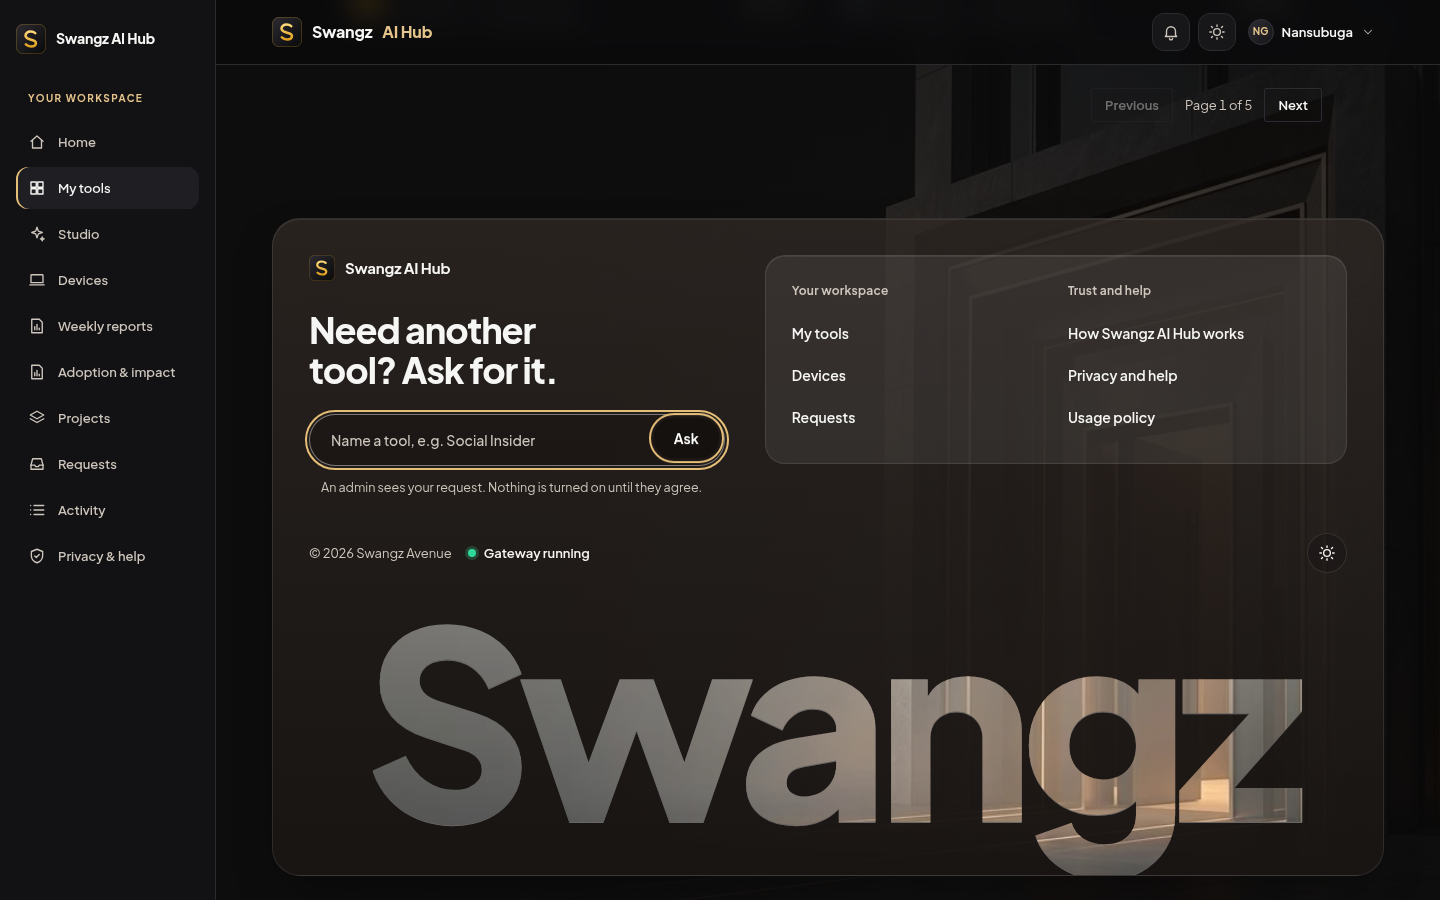
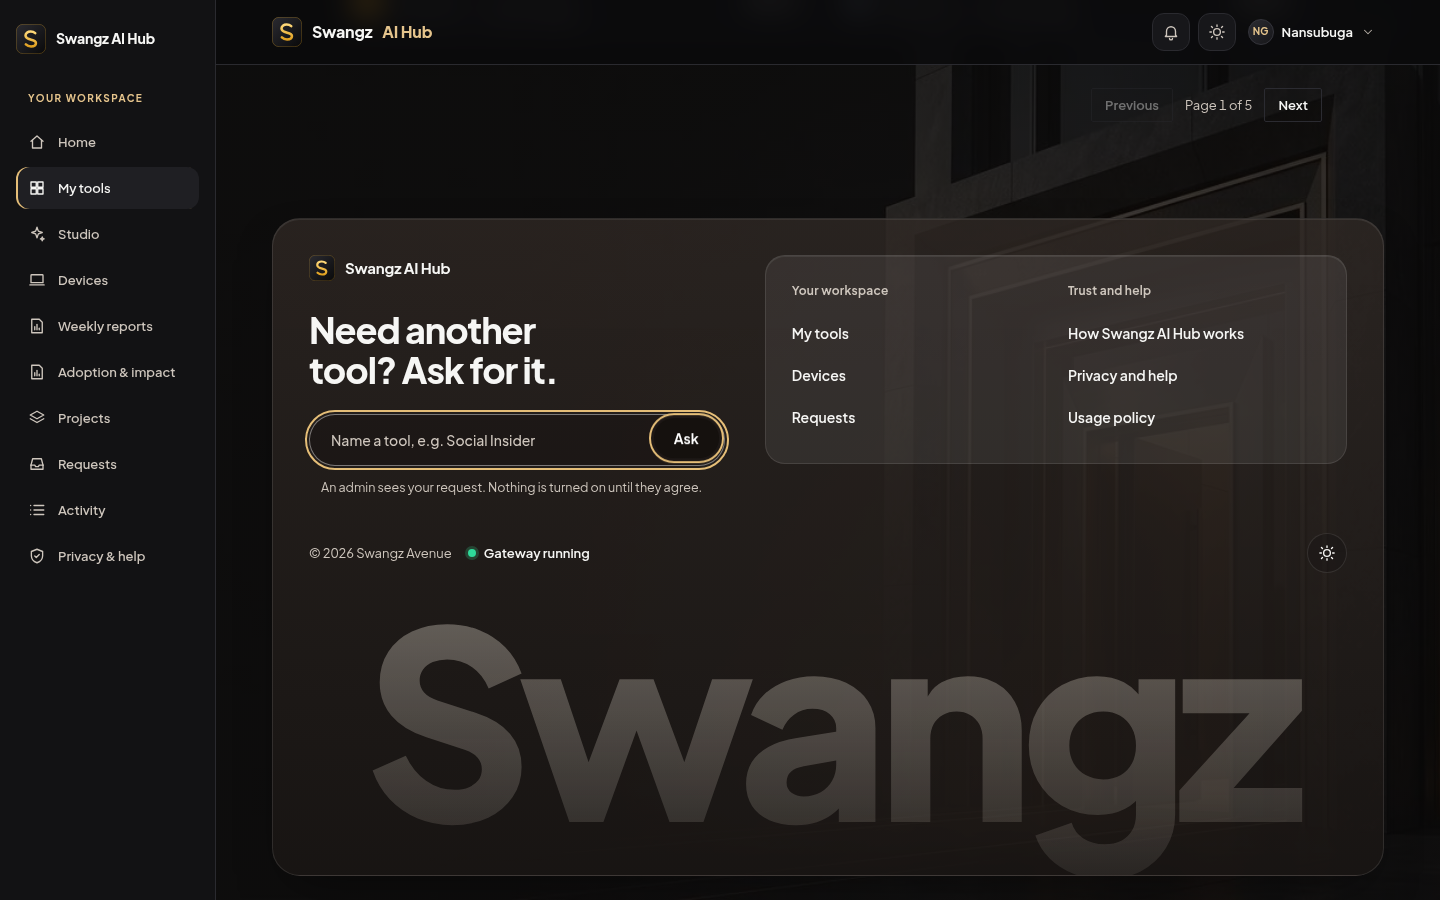
Footer evidence on the corrected head: screenshots, wordmark assertion, trace and limits

Changed region(s): [[0.25, 0.6844, 0.9062, 0.9956]]

diff --git a/docs/screenshots/glass-r11/README.md b/docs/screenshots/glass-r11/README.md
@@ -8,10 +8,9 @@ Real data only: health is the public `/healthz` (cached 60 s), "Ask" reuses the 
 
 ## Differences still left versus the reference
 - The panel's top edge settles straight; the reference keeps a wavy liquid edge. The reveal wave was removed with the panel animation (below).
-- In dark theme the wordmark is the fixed scene lifted by a warm light layer, so "Swa" reads as soft grey while "ngz" shows more of the photo; the reference letters are brighter still. The rim is a drop-shadow, not a text stroke (a stroke drew the variable font's overlapping inner contours).
+- (Superseded by the corrections below: the wordmark is now a plain clipped gradient.) In dark theme the wordmark was the fixed scene lifted by a warm light layer, so "Swa" reads as soft grey while "ngz" shows more of the photo; the reference letters are brighter still. The rim is a drop-shadow, not a text stroke (a stroke drew the variable font's overlapping inner contours).
 - The "g" descender runs into the panel's bottom edge on purpose (cut-off wordmark); the reference shows the full letter.
 - Light theme panel is a flatter cream than the reference's frosted white; the panel is a layered translucent gradient with no backdrop blur (see below), so it is flatter than frosted glass.
-- `background-attachment: fixed` is ignored on iOS Safari, so the cut-out falls back to the scene scaled to the wordmark box.
 - Gateway status has three wordings (running; up with the database not responding; not answering). No other health data is available to show.
 
 ## Corrections after Probe's review of 172c77a (portal.css, portal.js, this folder only)
@@ -32,3 +31,15 @@ Findings: the live backdrop blur was the main cost (a blur radius of 8 px cost t
 - Ask field border: white at .42 on dark, brown at .6 on light, so the field edge shows. Not measured numerically (estimated above 3:1 from the panel colours).
 - `/healthz` 503 with a body now reads "Gateway up, database not responding" (checked with a mocked 503); unreachable stays "Gateway not answering".
 - Typing a tool that does not exist keeps the message on the footer with a "Search every tool for it" link instead of jumping to Tools and losing the message (checked).
+
+## Correction after Probe's exact-head review (performance BLOCKED)
+- **Removed the wordmark's repaint layer.** `.gf-word` was the scene photo (`cover fixed`) clipped to 300px letters with a `drop-shadow` filter: a fixed background repaints on every scroll step and the filter adds a layer. It is now one translucent gradient clipped to the letters (`background-clip: text`), with no photo, no fixed attachment and no filter. Kept: the cut-off "Swangz" letters at the panel's foot, the milky panel, the reveal (content rises, wordmark fades in place). Dropped: the photo showing through the letters and the 1px light rim, which needed the filter. The wordmark stays decorative (`aria-hidden`).
+- `check.cjs` now asserts the wordmark has no text stroke, no filter, no fixed attachment and no image (`url()`), in both themes and sizes. Screenshots regenerated on the head merged with current main.
+- **Trace** (`perf.cjs`, same page and harness, `OLDWORD=1` puts the previous wordmark back with an injected rule): 1440x900, headless Chrome `--disable-gpu` (software render), 4 runs; each loads Tools, scrolls to the footer in 24 steps and records `requestAnimationFrame` intervals until 1.6 s after arrival.
+
+| Theme | Old wordmark: p95 per run | Gradient wordmark: p95 per run | Frames over 50 ms, old | now |
+|---|---|---|---|---|
+| dark | 100, 83, 83, 83 ms | 67, 67, 67, 67 ms | 10, 9, 7, 7 | 10, 11, 9, 6 |
+| light | 83, 83, 67, 67 ms | 83, 67, 83, 67 ms | 11, 11, 10, 10 | 11, 10, 10, 9 |
+
+Honest reading: dark shows a modest, repeatable gain in p95 and worst frame (max 117-183 ms before, 83-100 ms now); the count of slow frames and the light theme are within noise. **I do not claim parity with main.** Not run: a same-harness main baseline (main has no footer), a real GPU, a Chrome performance-trace file. The scroll loop is driven through Playwright, so some of the slow frames are harness overhead. The earlier experiment with the wordmark hidden (67-117 ms) suggests the remaining cost is the page, not the wordmark.
